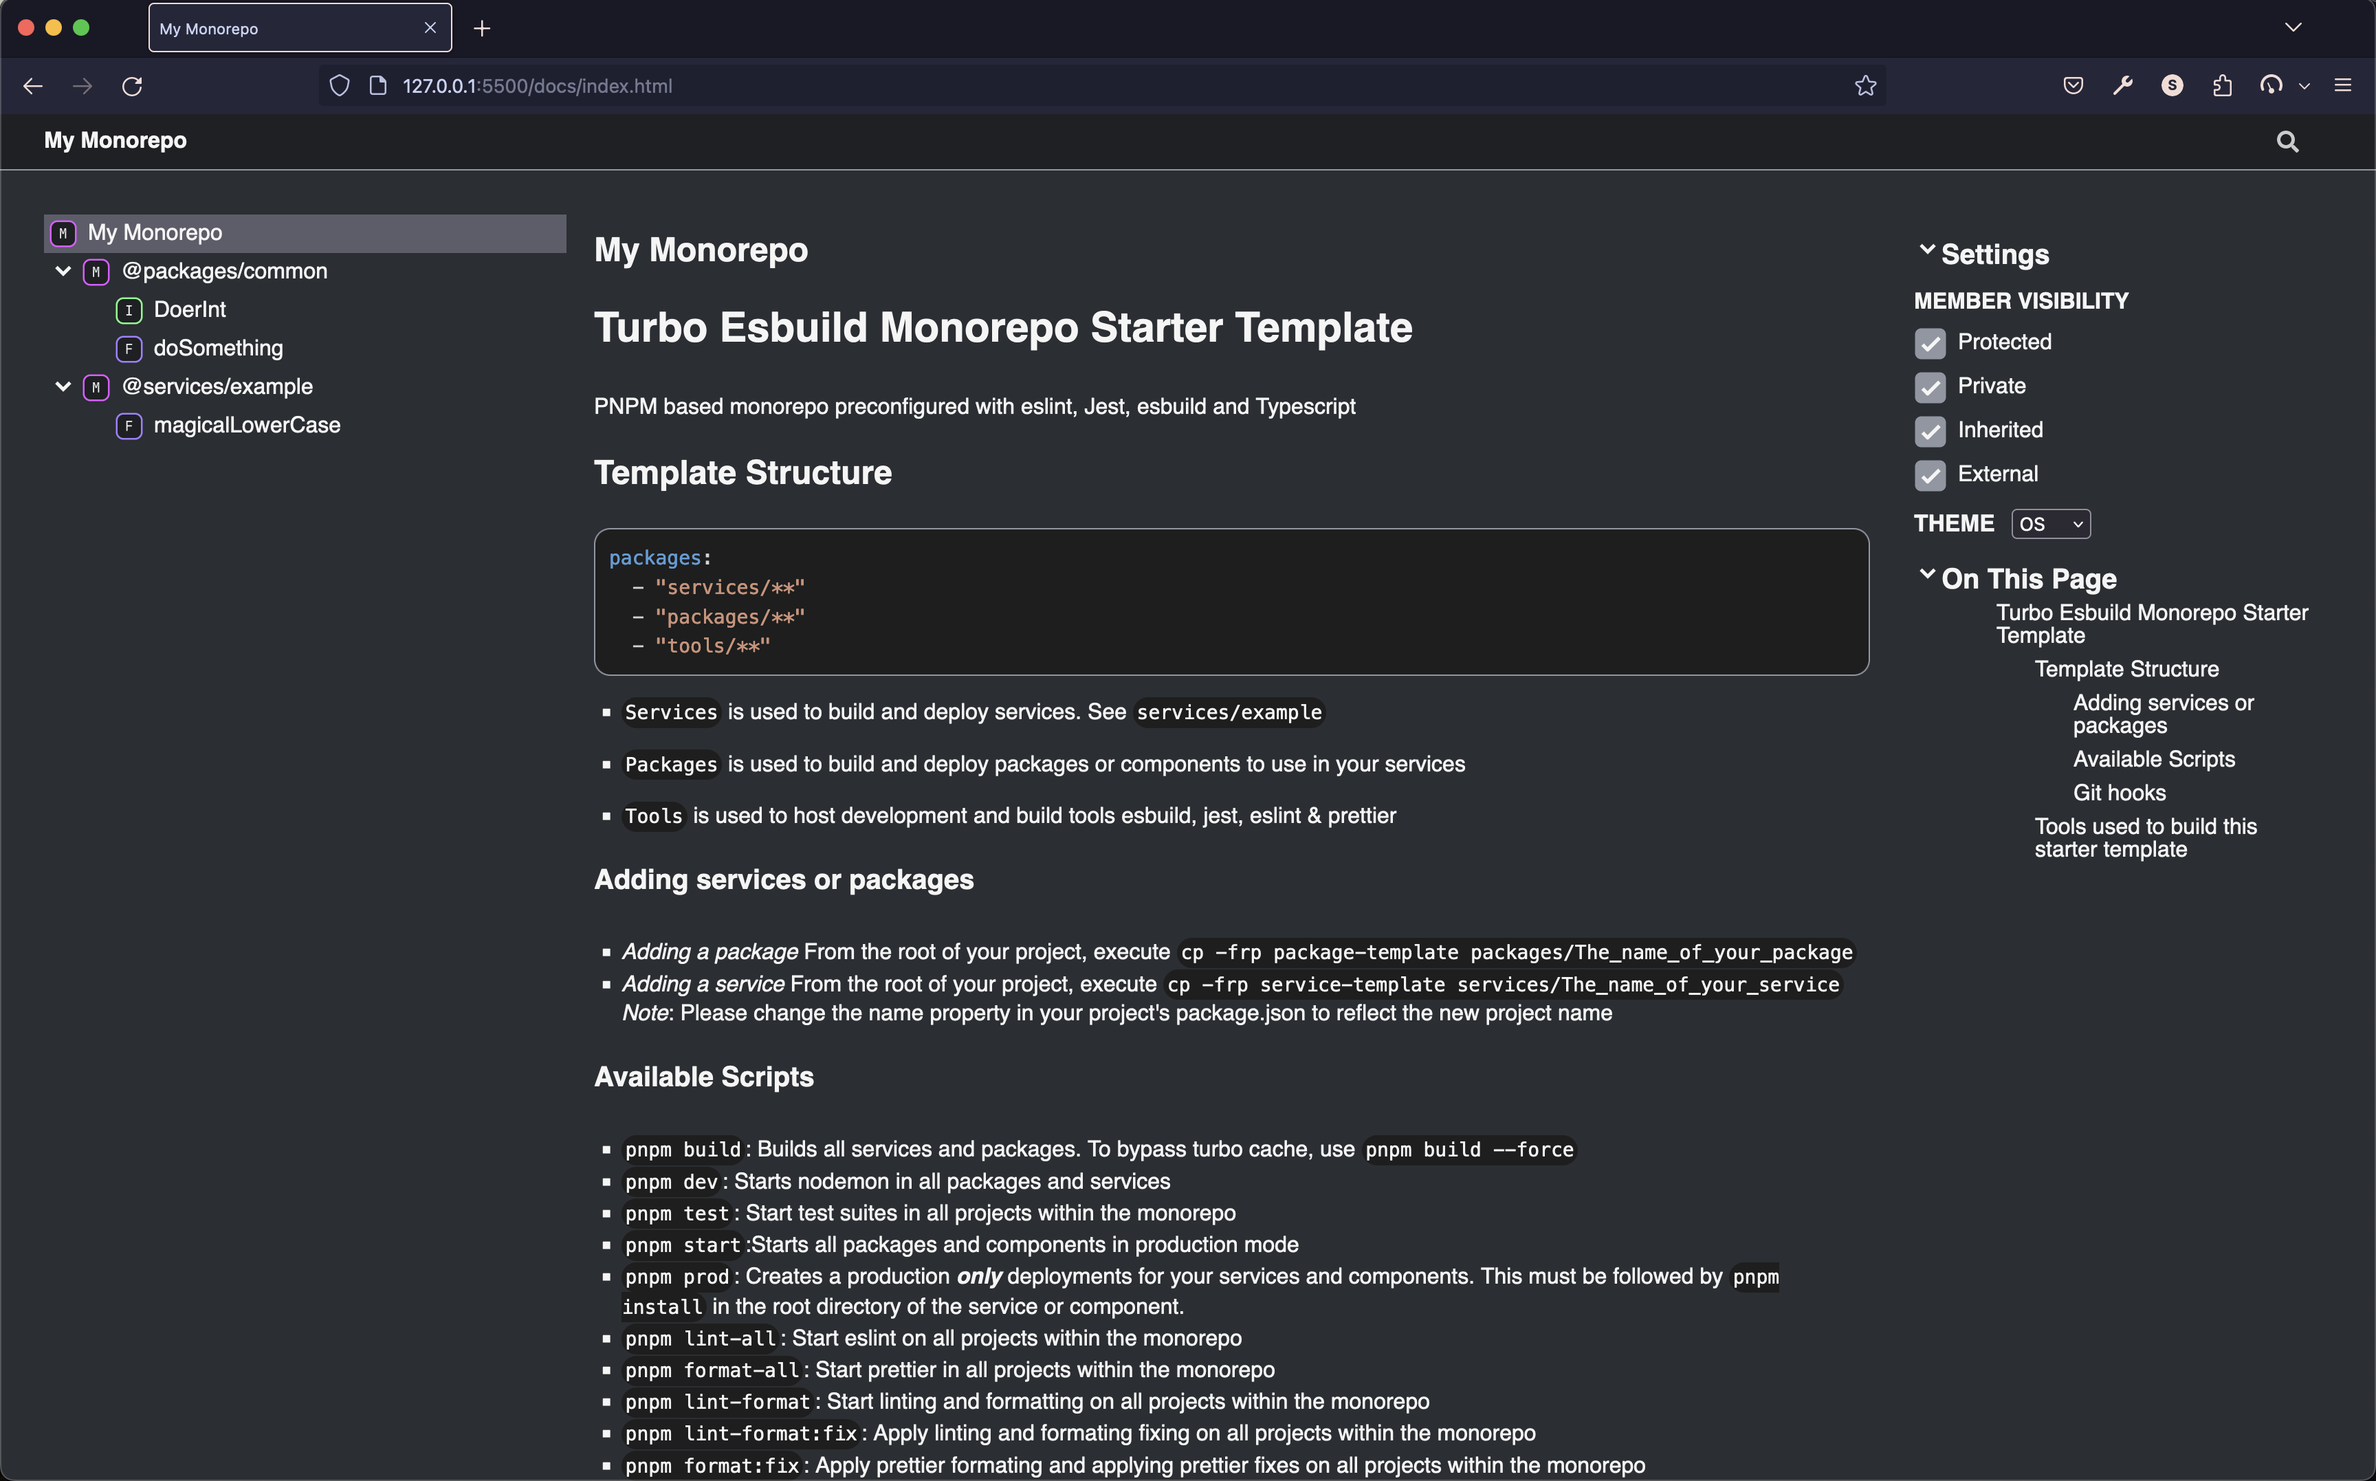
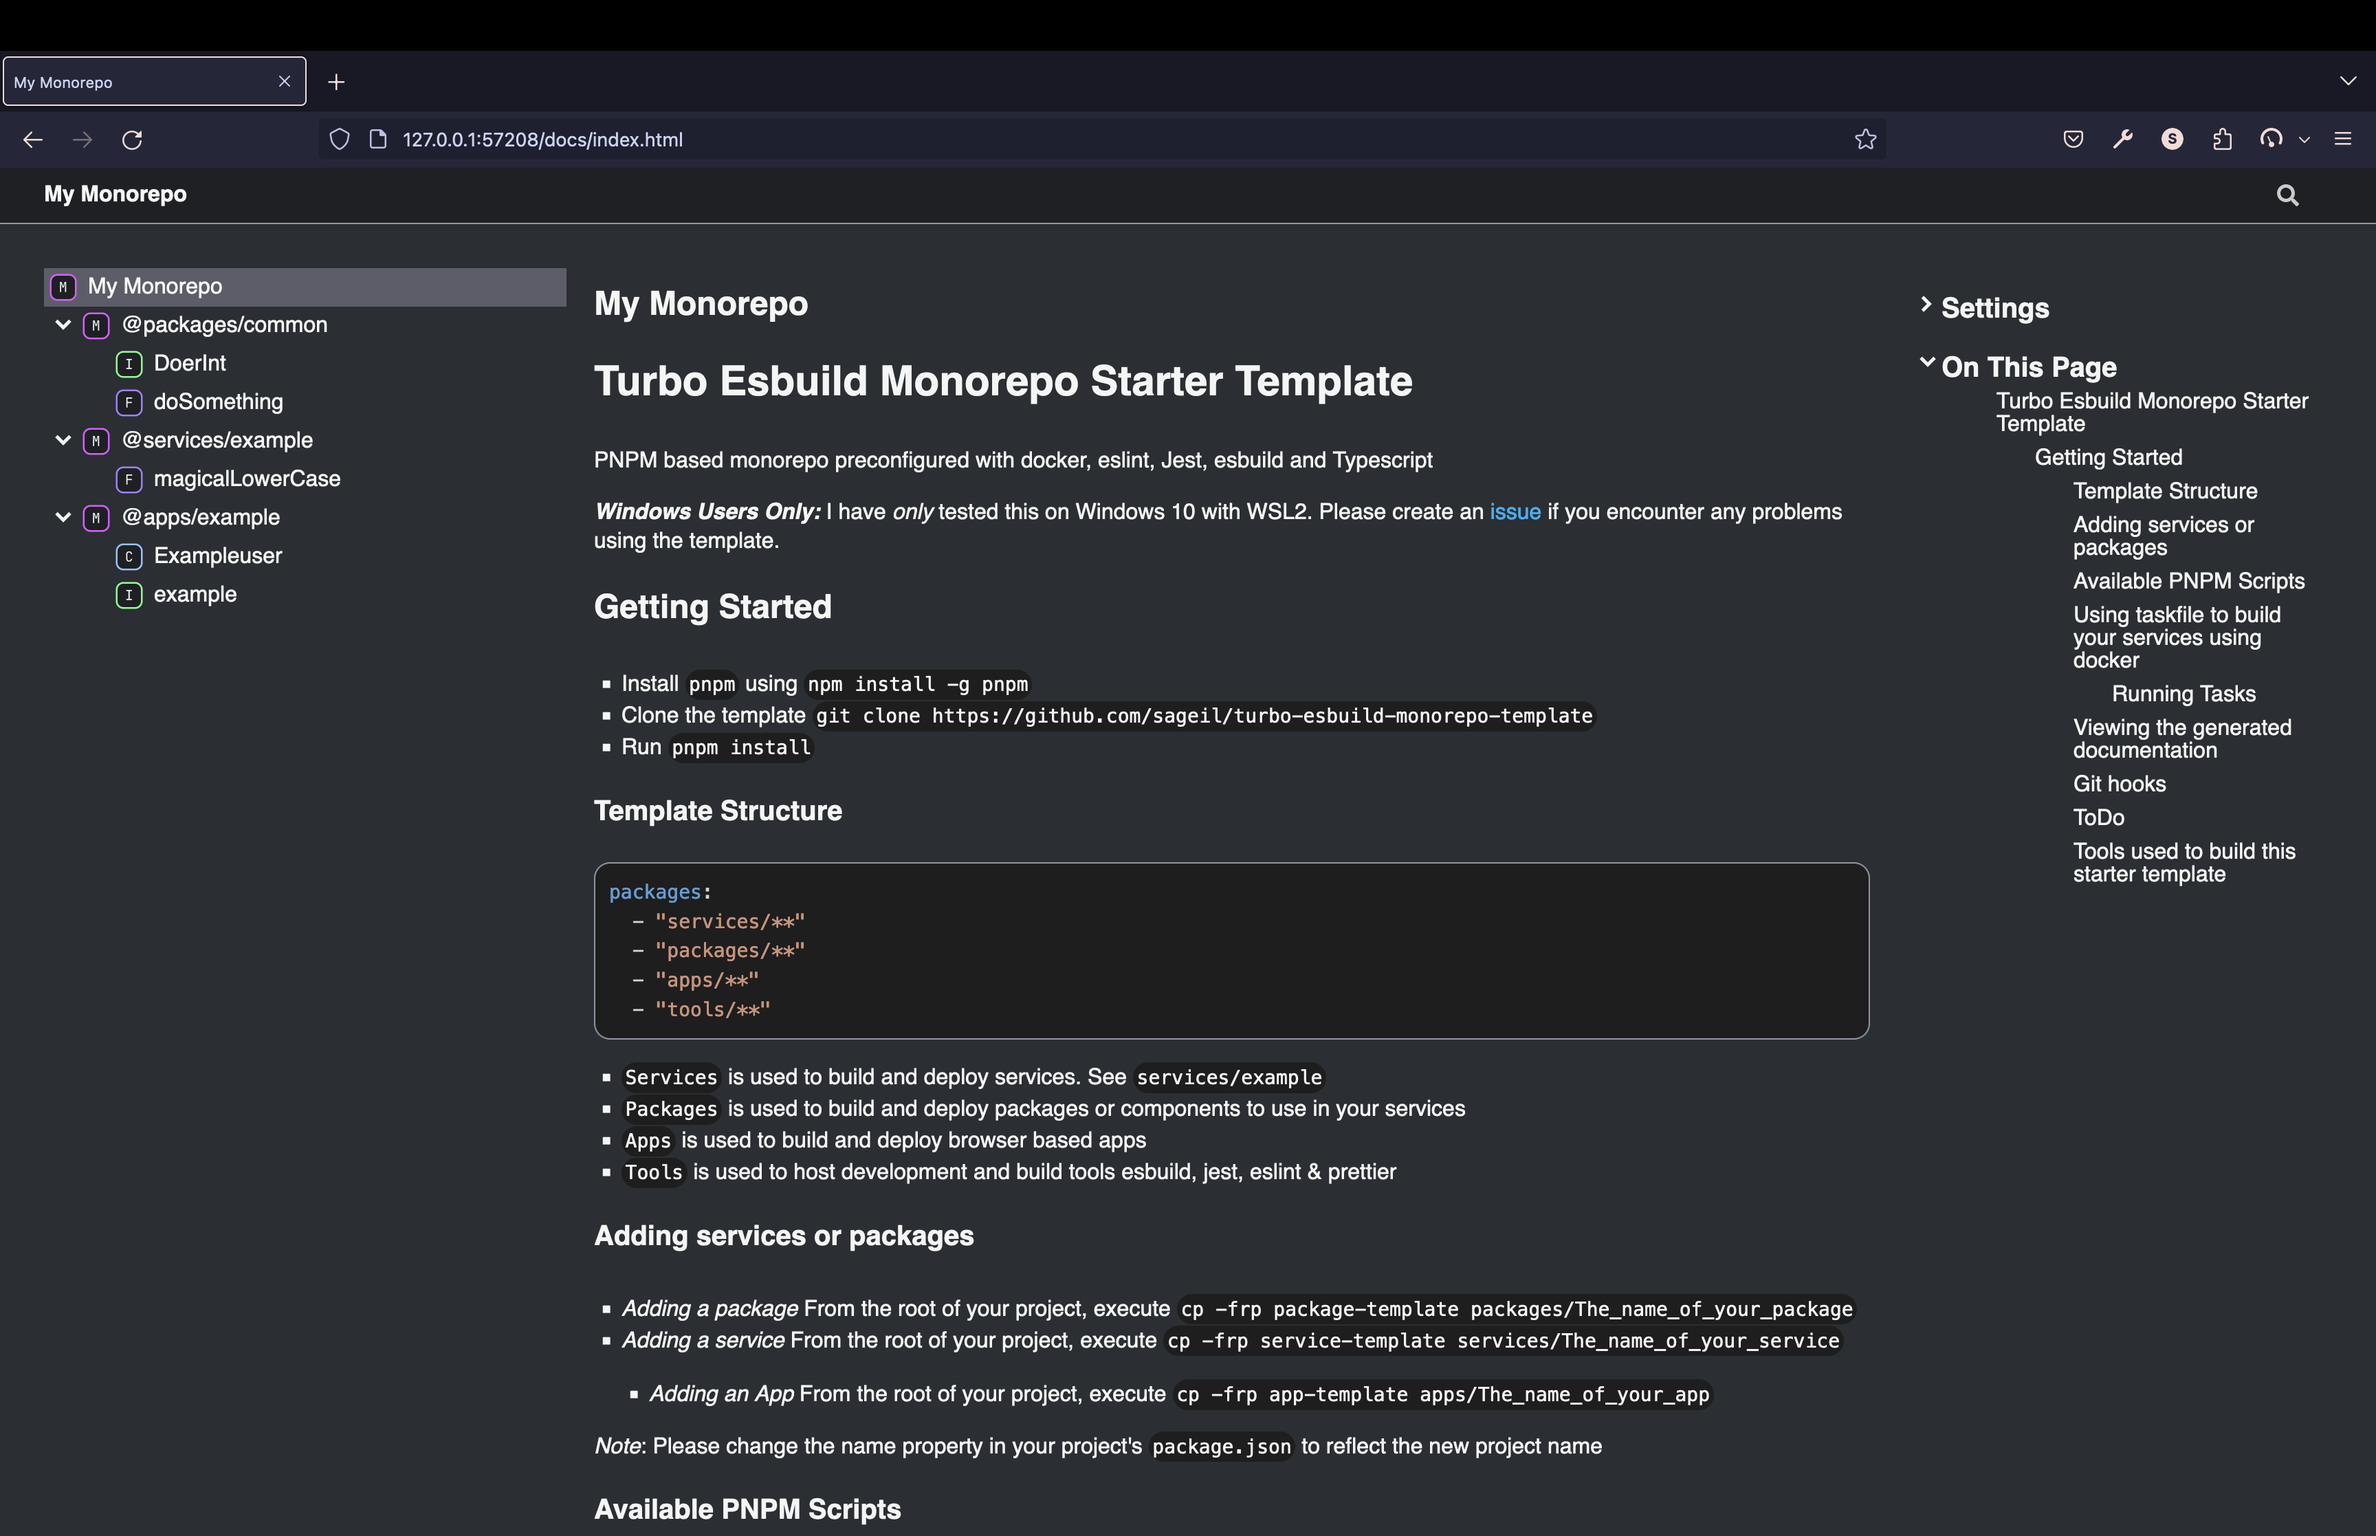
fix: fix docs generation to include apps

Changed region(s): [[0.0, 0.0, 1.0, 1.0], [0.9375, 0.0933, 0.9688, 0.1244]]

diff --git a/apps/example/src/index.ts b/apps/example/src/index.ts
@@ -1,0 +1,30 @@
+/**
+ * Docs for `example app index` module
+ * @packageDocumentation
+ */
+
+/**
+ * Example user
+ * @example example
+ * @implements {example}
+ */
+export class Exampleuser implements example {
+  /**
+   * Cancels the operation and returns a boolean value.
+   *
+   * @return {boolean} true if the operation is successfully canceled, false otherwise
+   */
+  public cancel(): boolean {
+    return true;
+  }
+}
+/**
+ * example interface demonstrating usage
+ */
+export interface example {
+  /**
+   * Cancels the operation and returns a boolean value.
+   * @return {boolean} true if the operation is successfully canceled, false otherwise
+   * */
+  cancel: () => boolean;
+}

diff --git a/README.md b/README.md
@@ -48,7 +48,7 @@ packages:
 - `pnpm lint-format`: Start linting and formatting on all projects within the monorepo
 - `pnpm lint-format:fix`: Apply linting and formating fixing on all projects within the monorepo
 - `pnpm format:fix`: Apply prettier formating and applying prettier fixes on all projects within the monorepo
-- `pnpm docs-all`: Start typedoc on all projects within the monorepo in directory called `docs` in the root of your monorepo
+- `pnpm gendocs`: Start typedoc on all projects within the monorepo in directory called `docs` in the root of your monorepo
 
 ### Using taskfile to build your services using docker
 
@@ -58,7 +58,7 @@ Before using the taskfile to build your services, make sure you have installed [
 
 - `task docker`: Used to build the docker image and run the container
 - `task --watch docker`: Used to build, deploy and watch your project for changes in docker.
-- `tasl --watch docker --force`: Used to force build, deploy and watch your project for changes in docker.
+- `task --watch docker --force`: Used to force build, deploy and watch your project for changes in docker.
 
 ### Viewing the generated documentation
  - Execute `pnpm viewdocs` in the root of your monorepo to view the generated documentation in your default browser(http://127.0.0.1:57208/docs).
